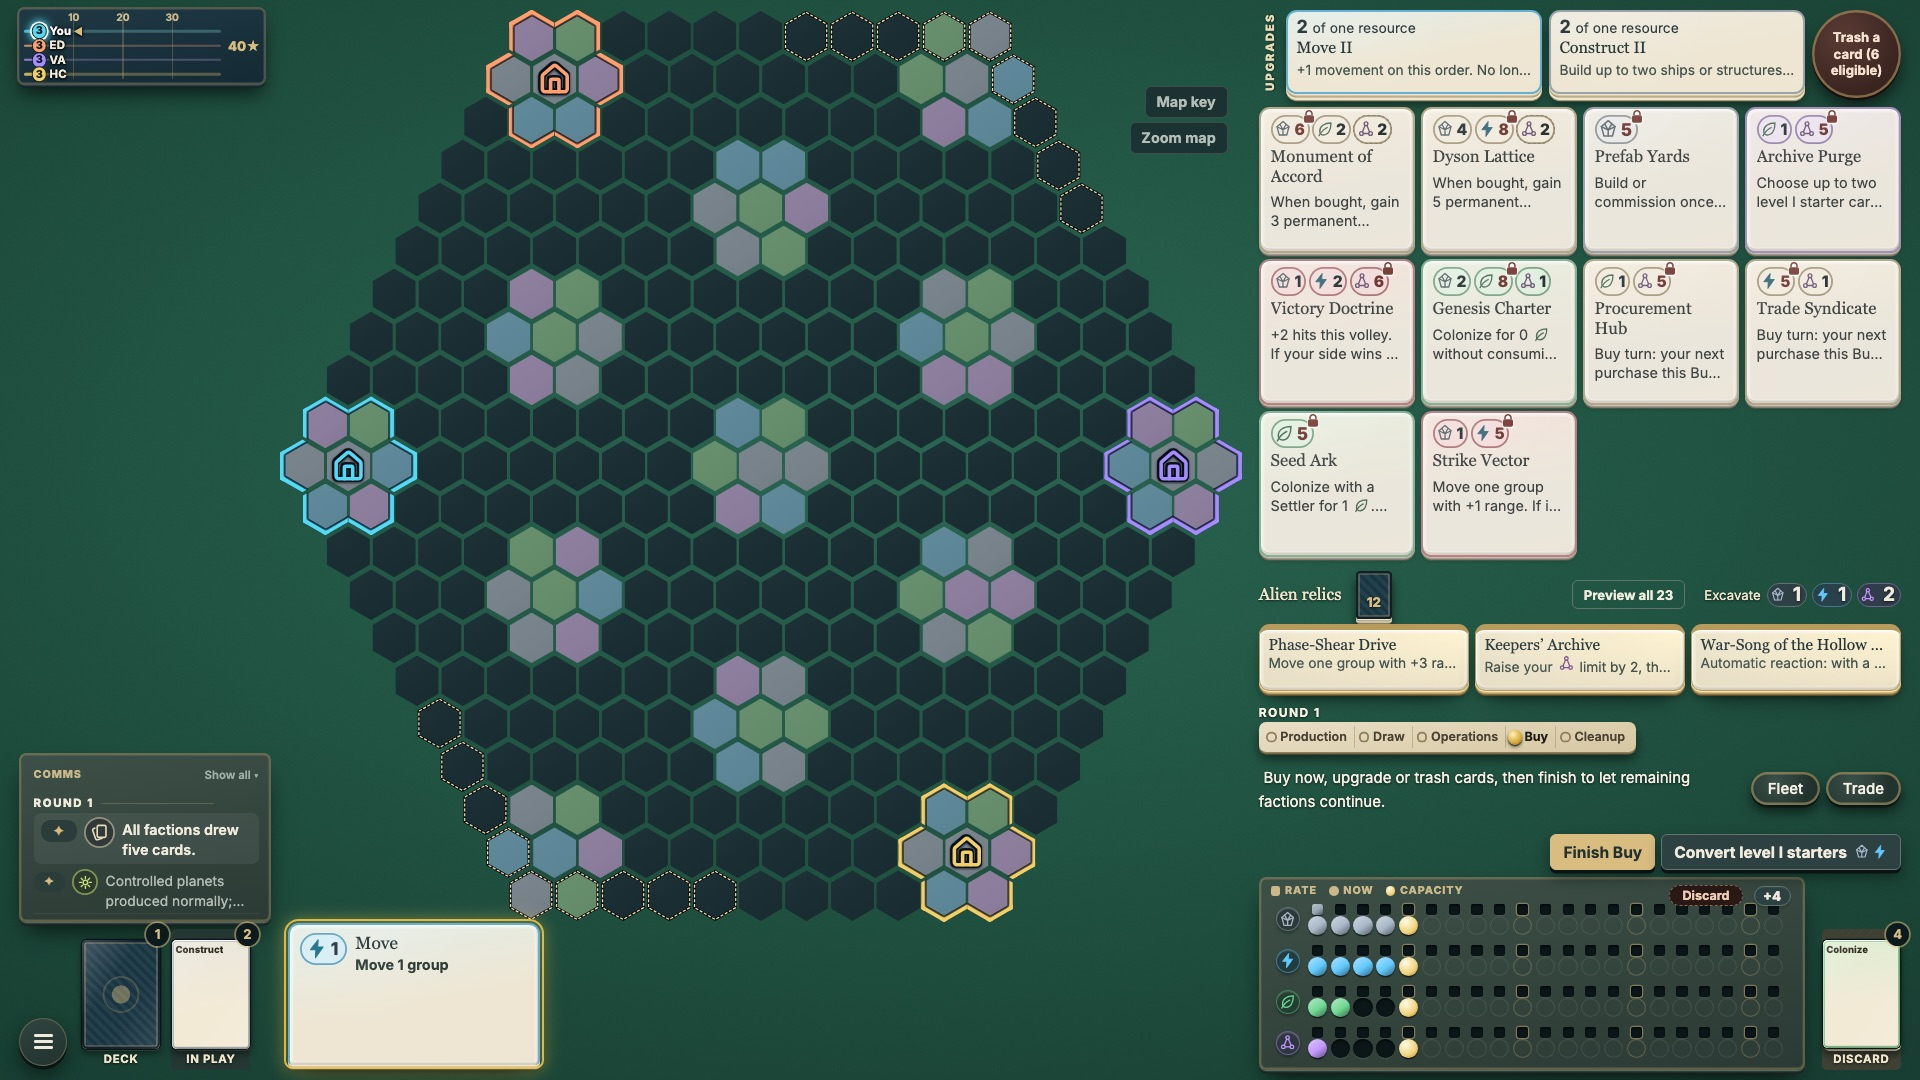
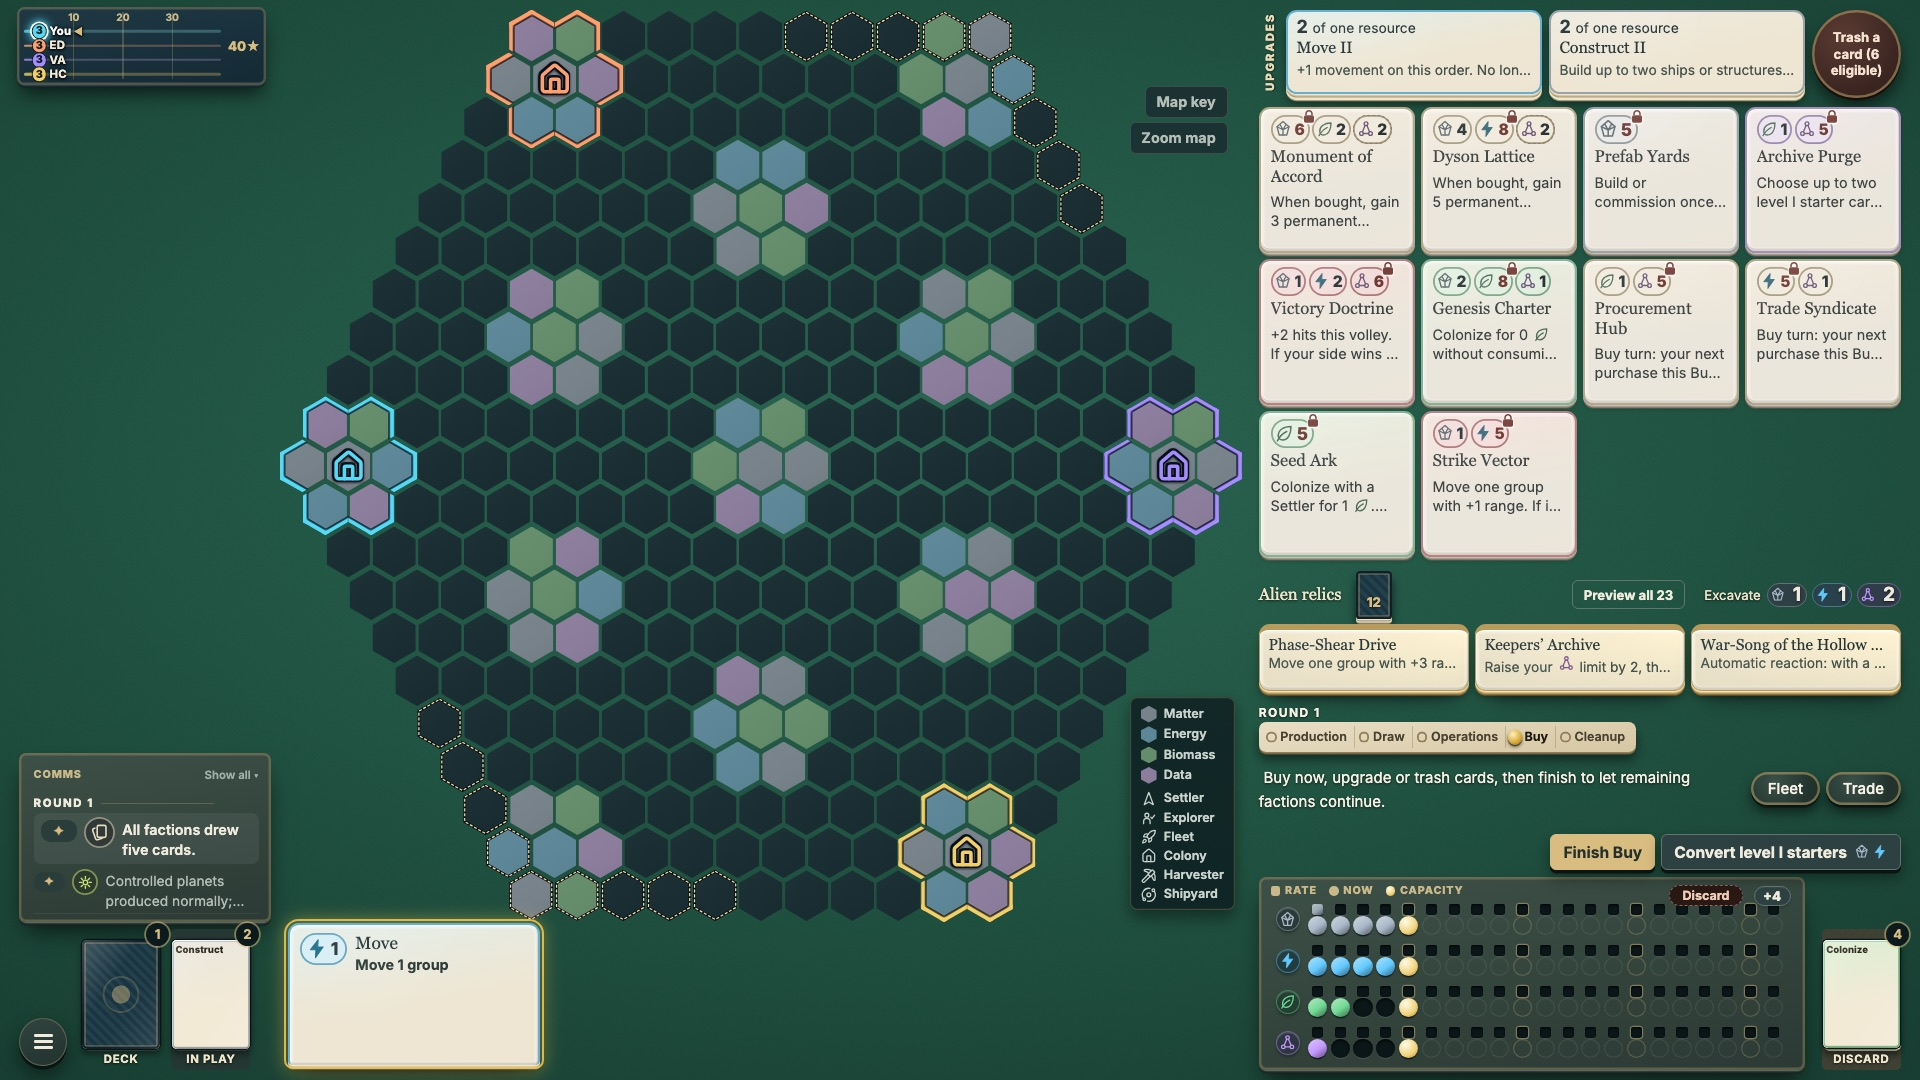
A short map key in the map's empty corner: terrain colours and the six pieces with one-word names; the map keeps clear of it

Changed region(s): [[0.5625, 0.6417, 0.6562, 0.8556]]

diff --git a/prototypes/galactic-reach/rulebook.html b/prototypes/galactic-reach/rulebook.html
@@ -123,7 +123,7 @@
 
       <section id="movement">
         <h2>05 / Exploration &amp; movement</h2>
-        <p id="shared-board">Read shared table information around the board: on a desktop window, the whole window is one table, scaled as a whole to fit; the standings are the race to the Prestige goal, a small printed track by the map’s top-left corner with one lane per faction and its marker at its current score (the acting faction’s marker glows, with an arrow; point at or focus a marker for an overview of that faction’s Prestige sources, colonies, cards bought and fleet power, or select it for the breakdown; on a phone the track is the <strong>Table</strong> drawer); the comms feed lies in the bottom-left corner as a small card of the latest three entries, printed like your player mat; select it to open the whole feed, and again (or press Escape) to close it (each entry shows who acted, a symbol for the kind of event and its resource and Prestige amounts; point at an entry for the full sentence); the map itself fills all the space the other pieces leave, reaching into the corners around the track and the comms card; and to its right lies the supply, all visible together: the <strong>Upgrades</strong> tray (with <strong>Trash a card</strong> beside it during Buy), the ten market cards and the face-up alien relics; below the supply, by your seat, are the round’s phases, the turn prompt, <strong>Fleet</strong> and <strong>Trade</strong>, then the turn’s buttons. On your turn your hand glows and gently breathes (a still glow when your device asks for reduced motion). <strong>Fleet</strong> opens over the supply. The game’s title, rules, card gallery, new game, Undo and playtest notes open from the menu button in the bottom-left corner. The market shows its cards with their names and as much of each effect as fits, wrapped (point at one to read it in full; choose it to buy), and cards you can buy now are outlined in gold. <strong>Trade</strong> opens the trade channel in its own window. Card frames take the colour of the resource a card works with (gold for capacity, Buy and Prestige cards, red for military and attack cards); the map key shows them. Select a Prestige marker to inspect its breakdown; the scoring reference is in <a href="#victory">Victory</a>. On a narrow screen, these panels reflow inside the board frame; scroll the map to reach other hexes. The recent-action feed can say that Probe was used, but never gives its private relic location. Your hand, card piles, reserves, and full game-report download stay on your player mat. The report can include private information.</p>
+        <p id="shared-board">Read shared table information around the board: on a desktop window, the whole window is one table, scaled as a whole to fit; the standings are the race to the Prestige goal, a small printed track by the map’s top-left corner with one lane per faction and its marker at its current score (the acting faction’s marker glows, with an arrow; point at or focus a marker for an overview of that faction’s Prestige sources, colonies, cards bought and fleet power, or select it for the breakdown; on a phone the track is the <strong>Table</strong> drawer); the comms feed lies in the bottom-left corner as a small card of the latest three entries, printed like your player mat; select it to open the whole feed, and again (or press Escape) to close it (each entry shows who acted, a symbol for the kind of event and its resource and Prestige amounts; point at an entry for the full sentence); the map itself fills all the space the other pieces leave, reaching into the corners around the track and the comms card, with a short key of the terrain colours and pieces in its bottom-right corner (the <strong>Map key</strong> button has the full descriptions); and to its right lies the supply, all visible together: the <strong>Upgrades</strong> tray (with <strong>Trash a card</strong> beside it during Buy), the ten market cards and the face-up alien relics; below the supply, by your seat, are the round’s phases, the turn prompt, <strong>Fleet</strong> and <strong>Trade</strong>, then the turn’s buttons. On your turn your hand glows and gently breathes (a still glow when your device asks for reduced motion). <strong>Fleet</strong> opens over the supply. The game’s title, rules, card gallery, new game, Undo and playtest notes open from the menu button in the bottom-left corner. The market shows its cards with their names and as much of each effect as fits, wrapped (point at one to read it in full; choose it to buy), and cards you can buy now are outlined in gold. <strong>Trade</strong> opens the trade channel in its own window. Card frames take the colour of the resource a card works with (gold for capacity, Buy and Prestige cards, red for military and attack cards); the map key shows them. Select a Prestige marker to inspect its breakdown; the scoring reference is in <a href="#victory">Victory</a>. On a narrow screen, these panels reflow inside the board frame; scroll the map to reach other hexes. The recent-action feed can say that Probe was used, but never gives its private relic location. Your hand, card piles, reserves, and full game-report download stay on your player mat. The report can include private information.</p>
         <p id="keyboard-controls">Use <strong>Tab</strong> to reach controls and <strong>Enter</strong> or <strong>Space</strong> to activate them. The first link skips straight to player controls. Use arrow keys, Home, or End to switch the player-control tabs. Escape closes inspectors and reference windows. Combat and excess-resource choices stay open until you make the required choice.</p>
         <div class="book-legend" role="group" aria-label="Map symbols"><span><b class="relic-mark" aria-hidden="true">◈</b> Located relic</span><span><b class="relic-mark" aria-hidden="true">●</b> Gray moon · no production</span></div>
         <p>World terrain is always public, but seeing a world does not locate its relic. Any Settler, Fleet, or Explorer ending a move surveys that world or moon, revealing its terrain to everyone. Arrival never locates a relic. Use <strong>Probe</strong> from your Explorer’s current hex to locate the nearest remaining relic you have not already discovered, even on an unvisited world or hidden moon. Known sites are skipped. When you locate the last unknown site, a message tells you that all remaining relics are discovered. If all remaining sites are already known to you, Probe warns you without spending the card or your action. You do not need to reach that world or moon first. A signal on an undiscovered moon reveals the relic’s hex to you without revealing the moon’s terrain. Other players must locate it for themselves. Existing discovery relic cards keep their printed effects. Probe and Chorus signals stay private after later terrain surveys. Only an effect that explicitly reveals relics to everyone makes them public. All players’ units remain visible, including in empty space. Unit markers alone do not reveal a hidden moon or relic.</p>

diff --git a/prototypes/galactic-reach/app.js b/prototypes/galactic-reach/app.js
@@ -3521,6 +3521,10 @@ function createGalacticReach(options = {}) {
       ['settler','Settler'],['explorer','Explorer'],['fleet','Fleet'],
       ['colony','Colony'],['harvester','Harvester'],['starbase','Shipyard']
     ];
+    // A short key in the map's empty corner, so the board teaches itself without opening the
+    // Map key (which keeps the full descriptions).
+    const corner = $('#map-legend-corner');
+    if (corner) corner.innerHTML = RESOURCES.map(resource => `<span class="legend-res ${resource}"><i></i>${RESOURCE_NAMES[resource]}</span>`).join('') + entries.map(([type,label]) => `<span class="legend-piece">${BOARD_ICONS[type]}${label}</span>`).join('');
     $('#symbol-legend').innerHTML = `<strong class="legend-heading">Units &amp; buildings</strong>${entries.map(([type,label]) => {
       const cost = type === 'colony' ? { biomass: 2 } : SHIP_STATS[type]?.cost || STRUCTURES[type]?.cost;
       return `<span class="tooltip-anchor symbol-legend-item" role="group" tabindex="0" data-tooltip="${LEGEND_TOOLTIPS[type]}" aria-label="${label}. ${LEGEND_TOOLTIPS[type]}"><span class="symbol-legend-name">${BOARD_ICONS[type]}${label}</span><span class="symbol-legend-cost">${resourceDots(cost)}</span><span class="symbol-legend-description">${LEGEND_TOOLTIPS[type]}</span></span>`;
@@ -4680,9 +4684,9 @@ function createGalacticReach(options = {}) {
 
   // The map fills the space the other pieces leave: on a landscape table it may reach into the
   // left strip, as long as no hex runs under the Prestige track, the notice spot below it, the
-  // comms card or the map tools, which lie in the hexagon's empty corners. Hex positions scale
-  // with the map's width, so they are measured once and the largest width that clears every
-  // corner piece is found by bisection.
+  // comms card, the map tools or the short map key, which lie in the hexagon's empty corners.
+  // Hex positions scale with the map's width, so they are measured once and the largest width
+  // that clears every corner piece is found by bisection.
   let fitMapLog = null;
   function fitMap() {
     if (typeof document === 'undefined' || !document.documentElement?.style) return;
@@ -4701,7 +4705,7 @@ function createGalacticReach(options = {}) {
     // An open comms log lies over the map on purpose; the map keeps clear of the closed card.
     if (!$('.log-panel.open')) fitMapLog = rect($('.log-panel'));
     const log = fitMapLog;
-    const blocks = [track, notice, log, rect($('.map-tools'))].filter(Boolean);
+    const blocks = [track, notice, log, rect($('.map-tools')), rect($('#map-legend-corner'))].filter(Boolean);
     const fits = width => {
       const height = width * ratio, left = box.right - width, top = box.top + (box.height - height) / 2;
       return hexes.every(([l, t, r, bottom]) => blocks.every(([bl, bt, br, bb]) => left + r * width <= bl - gap || left + l * width >= br + gap || top + bottom * width <= bt - gap || top + t * width >= bb + gap));

diff --git a/prototypes/galactic-reach/styles.css b/prototypes/galactic-reach/styles.css
@@ -2504,3 +2504,27 @@ html { -webkit-text-size-adjust: 100%; text-size-adjust: 100%; }
   @container (min-height: 126px) { #market-panel #market-row .game-card:not(:hover):not(:focus):not(:focus-within) .card-effect { -webkit-line-clamp: 4 !important; line-clamp: 4 !important; } }
   @container (min-height: 142px) { #market-panel #market-row .game-card:not(:hover):not(:focus):not(:focus-within) .card-effect { -webkit-line-clamp: 5 !important; line-clamp: 5 !important; } }
 }
+
+/* ==== A short map key in the map's empty bottom-right corner: the four terrain colours and the
+   six pieces with one-word names. The Map key button keeps the full descriptions. ==== */
+.map-legend-corner { display: none; }
+@media (min-width: 600px) and (min-height: 600px) {
+  .map-legend-corner {
+    display: grid; grid-template-columns: auto; gap: 3px; z-index: 4; align-self: end; justify-self: end; margin: 0 6px 10px 0; padding: 7px 9px 6px;
+    border-radius: 6px; background: #0d1b1fcc; box-shadow: inset 0 0 0 1px #c2a76b44, 0 6px 12px #0006; color: #c9d3cc; font-size: 10.5px; font-weight: 600; line-height: 1.15; pointer-events: none;
+  }
+  .map-legend-corner > span { display: flex; align-items: center; gap: 6px; white-space: nowrap; }
+  .map-legend-corner .legend-res i { flex: none; width: 13px; height: 14px; clip-path: polygon(50% 0, 100% 25%, 100% 75%, 50% 100%, 0 75%, 0 25%); }
+  .map-legend-corner .legend-res.matter i { background: #77828a; }
+  .map-legend-corner .legend-res.energy i { background: #5d8798; }
+  .map-legend-corner .legend-res.biomass i { background: #658d6b; }
+  .map-legend-corner .legend-res.data i { background: #8d7d9d; }
+  .map-legend-corner .legend-res.data { margin-bottom: 3px; }
+  .map-legend-corner .board-glyph { flex: none; width: 13px; height: 13px; fill: none; stroke: currentColor; stroke-width: 2; }
+}
+@media (min-width: 600px) and (min-height: 600px) and (orientation: landscape) {
+  .map-legend-corner { grid-column: 1 / 3 !important; grid-row: 1 / 9 !important; }
+}
+@media (min-width: 600px) and (min-height: 600px) and (orientation: portrait) {
+  .map-legend-corner { grid-column: 1 / -1 !important; grid-row: 3 !important; }
+}

diff --git a/prototypes/galactic-reach/index.html b/prototypes/galactic-reach/index.html
@@ -120,6 +120,7 @@
             <div class="board-map-region">
               <div class="galaxy-board" id="galaxy-board" role="group" aria-label="Interactive galaxy map" aria-describedby="resource-legend symbol-legend"></div>
             </div>
+            <div class="map-legend-corner" id="map-legend-corner" aria-hidden="true"></div>
           </div>
         </div>
         <div class="map-tools"><span class="map-pan-hint">Scroll or swipe to explore the board</span><label id="development-tools" hidden><input type="checkbox" id="reveal-entire-map"> Reveal entire map <small>Development</small></label><button class="button button-ghost" type="button" id="open-map-key" aria-label="Map key: resources, units and costs" title="Resources, units and costs">Map key</button><button class="button button-ghost" type="button" id="map-zoom" aria-pressed="false">Zoom map</button></div>

diff --git a/changes/gr-ui-followup.md b/changes/gr-ui-followup.md
@@ -3,4 +3,4 @@ compat: safe
 title: The turn lies with your seat
 pr: 74
 ---
-The round's phases, the turn prompt and Fleet/Trade now sit at the bottom of the supply, next to your hand and the turn's buttons, and the supply starts at the top. On your turn your hand glows and gently breathes instead of a "Your turn" banner ([Shared board](rulebook.html#shared-board)). Market cards show their whole name and as much of their effect as fits, so they read without pointing at them.
+The round's phases, the turn prompt and Fleet/Trade now sit at the bottom of the supply, next to your hand and the turn's buttons, and the supply starts at the top. On your turn your hand glows and gently breathes instead of a "Your turn" banner ([Shared board](rulebook.html#shared-board)). Market cards show their whole name and as much of their effect as fits, so they read without pointing at them. A short key of the terrain colours and pieces lies in the map's empty corner.
